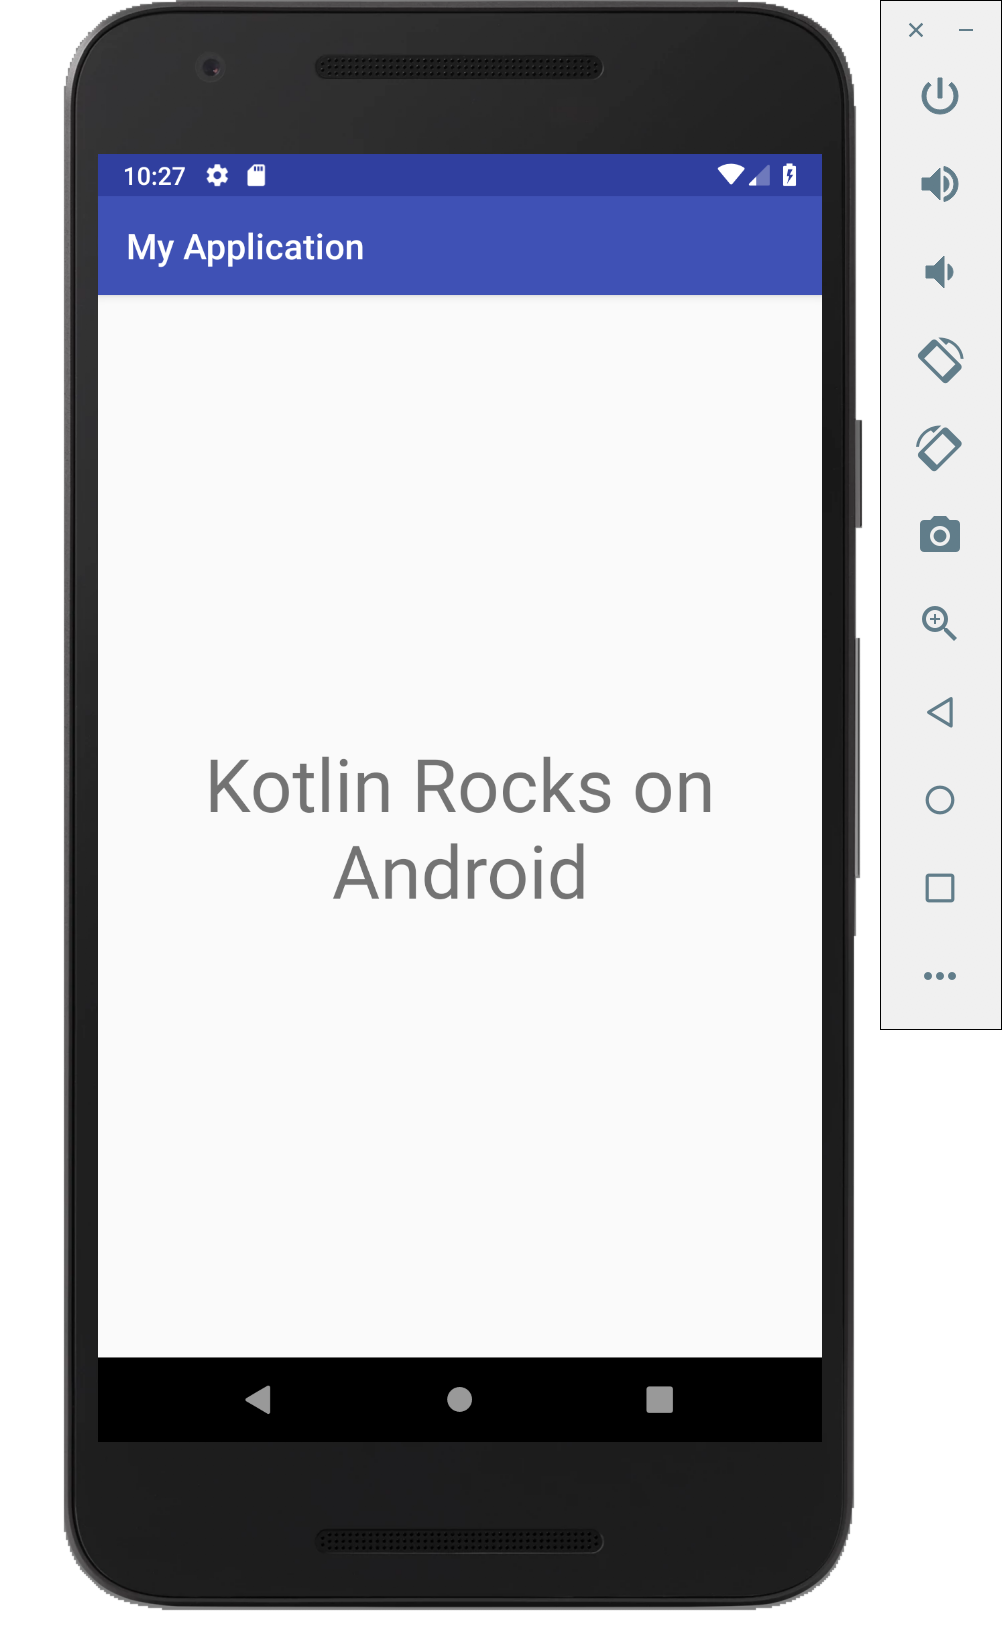
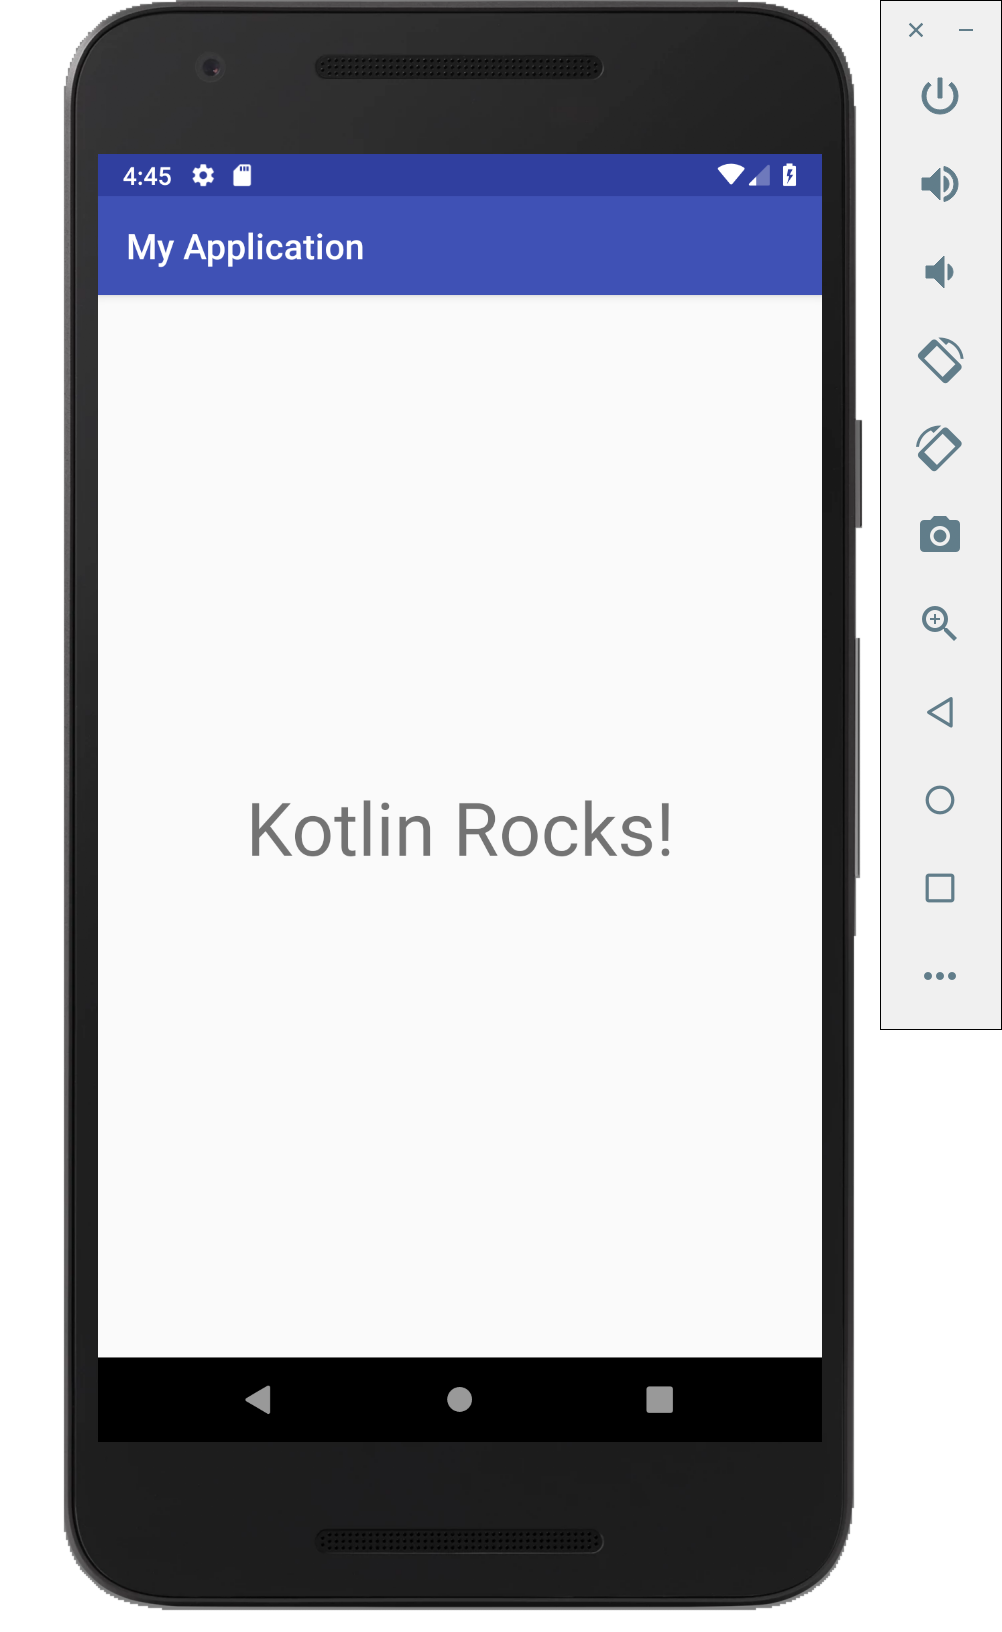
random patches for the MPP tutorial

Changed region(s): [[0.1856, 0.4688, 0.7116, 0.5625], [0.1238, 0.0938, 0.2784, 0.125]]

diff --git a/pages/docs/tutorials/native/mpp-ios-android.md b/pages/docs/tutorials/native/mpp-ios-android.md
@@ -60,18 +60,17 @@ your Android requirements. Defaults will work for the tutorial, so you may
 simply click through it. Similarly, on the third page, we select the *Empty Activity* option and click *Next*. 
 We agree on default names of the Activity on the next screen and click *Finish*.  
 
-It may fail opening the project with a Gradle import error. You may need to
+It may fail to open the project with a Gradle import error. You may need to
 [add Kotlin EAP repository](https://youtrack.jetbrains.com/issue/KT-18835#focus=streamItem-27-2718879-0-0), 
-for that we add the the line
+so we need to add the following line:
 
 <div class="sample" markdown="1" mode="groovy" theme="idea" data-highlight-only="1" auto-indent="false">
 
 ```groovy
 maven { url 'https://dl.bintray.com/kotlin/kotlin-eap' }
-maven { url "https://dl.bintray.com/jetbrains/kotlin-native-dependencies" }
 ```
 </div>
-into the `build.gradle` file under the both `buildscript { .. repositories { .. ` blocks.
+into the `build.gradle` file under the both `repositories { .. }` blocks.
 
 In the IntelliJ IDEA, you may also need to make sure Gradle is running under JDK 1.8, otherwise, the project import
 may [fail](https://youtrack.jetbrains.com/issue/IDEA-199397). Check out the Gradle Settings to fix that.
@@ -82,12 +81,58 @@ and use the following `distrubutionUrl`:
 distributionUrl=https\://services.gradle.org/distributions/gradle-4.10.2-all.zip
 ```
 
-It is also necessary to add the line:
+We need to refresh Gradle settings via the `Sync Now` banner on every Gradle file,
+or via the Gradle tab and the refresh button on the toolbar in IntelliJ IDEA to apply our changes.
+
+At that point, we shall be able to compile and run the project. Let's click on the `App` run configuration
+to have our project running either on a real Android Device or in the emulator. 
+
+![Start the Application]({{ url_for('tutorial_img', filename='native/mpp-ios-android/studio-start-app.png') }})
+And so we see the Application running in the Android emulator:
+    
+![Emulator App]({{ url_for('tutorial_img', filename='native/mpp-ios-android/android-emulator-hello-app.png') }}){: width="30%"}
+
+## Patching the Android Project
+
+Let's add more changes to the project to demonstrate code reuse between projects. 
+
+The generated sample application layout is as follows:
 ```
-org.gradle.configureondemand=false
+  /app
+  |   /src
+  |   |   /androidTest/java/<package>
+  |   |   /main
+  |   |        /java/<package>/MainActivity.kt
+  |   |        /res
+  |   |   /test
+  |   build.gradle       --- android application sub-project `:app`
+  |   
+  build.gradle           --- root project
+  settings.gralde     
 ```
-into the `gradle.properties` to make Android Studio use newer Gradle. We need to refresh Gradle settings
-from the Gradle tab to make Android Studio or IntellJ IDEA apply our changes.
+
+Let's change the example to set the custom text message from the code. 
+Later, we will share the way to generate the text between iOS and Android.
+For that we need to open the
+`app/src/main/res/layout/activity_main.xml` file
+(the name may be different, if you changed it in the new project wizard).
+We need to add several more attributes attribute to the `<TextView>` element: 
+```
+        android:id="@+id/main_text"
+        android:textSize="42sp"
+        android:layout_margin="5sp"
+        android:textAlignment="center"
+```
+
+Next, let's include the following line of code into the `MainActivity` class, to 
+the end of the `onCreate` method:
+
+```
+findViewById<TextView>(R.id.main_text).text = "Kotlin Rocks!"
+```
+
+We will replace the text with the function call in the next section.
+
 
 ## Running Android Project in Android Studio
 
@@ -98,43 +143,7 @@ to have our project running either on a real Android Device or in the emulator.
 
 And so we see the Application running in the Android emulator:
     
-![Emulator App]({{ url_for('tutorial_img', filename='native/mpp-ios-android/android-emulator-hello-app.png') }}){: width="30%"}
-
-The application layout is as follows
-```
-  /app
-  |   /src
-  |   |   /androidTest
-  |   |   /main
-  |   |   /test
-  |   build.gradle --- android application sub-project
-  |   
-  build.gradle     --- root project
-  settings.gralde     
-```
-
-## Changing Example Code
-
-Let's change the example to set the text view from the code. For that we need to open the
-`app/src/main/res/layout/activity_main.xml` (the name may be different, depending
-on what you had in the new project wizard). We need to include the `id` attribute to the
-`<TextView>` element: 
-```
-        android:id="@+id/main_text"
-        android:textSize="42sp"
-        android:layout_margin="5sp"
-        android:textAlignment="center"
-```
-
-Next, Let's include the following code into the `MainActivity` class into the end of the
-`onCreate` method:
-
-```
-findViewById<TextView>(R.id.main_text).text = "Kotlin Rocks!"
-
-```
-
-We will replace the text with some other later in the tutorial.
+![Emulator App]({{ url_for('tutorial_img', filename='native/mpp-ios-android/android-emulator-kotlin-rocks.png') }}){: width="30%"}
 
 
 # Adding Common Code Sub-Project
